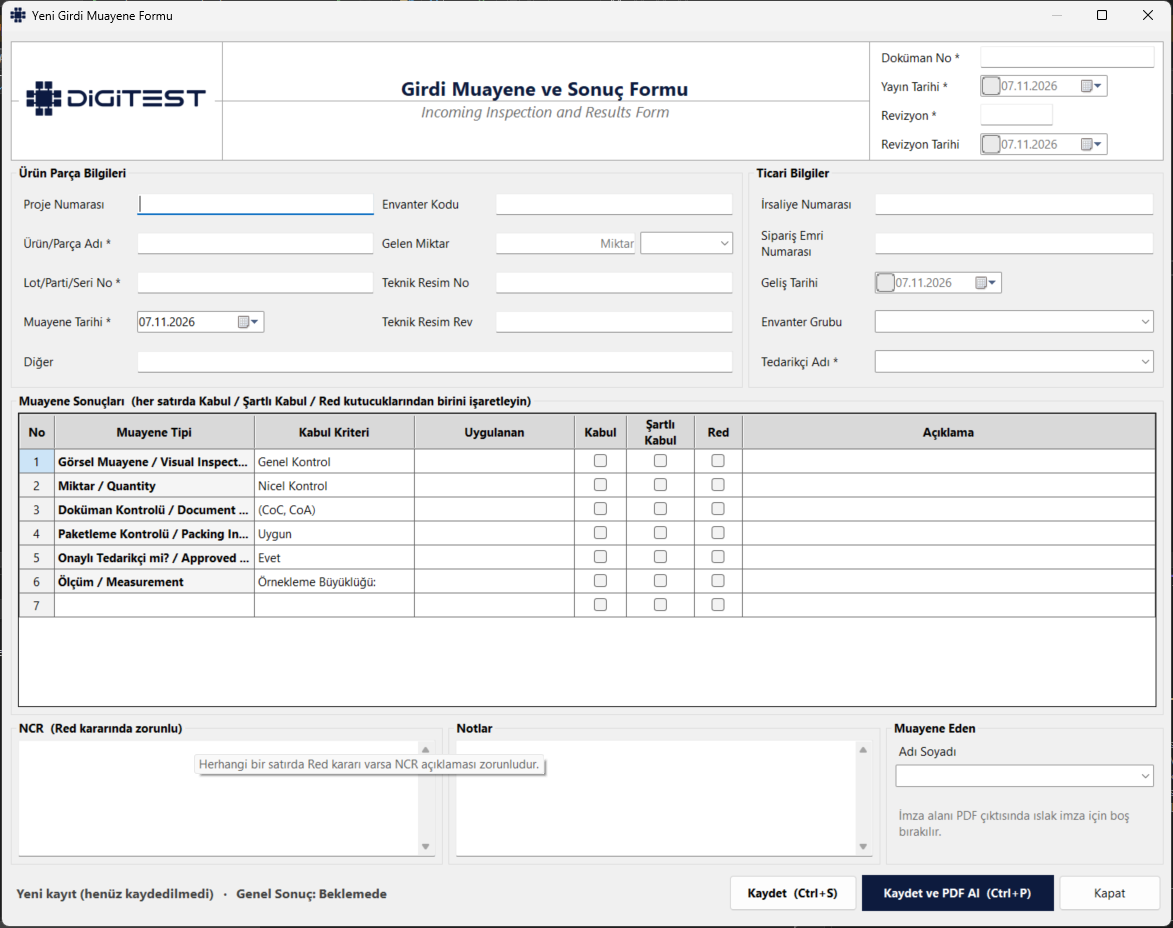
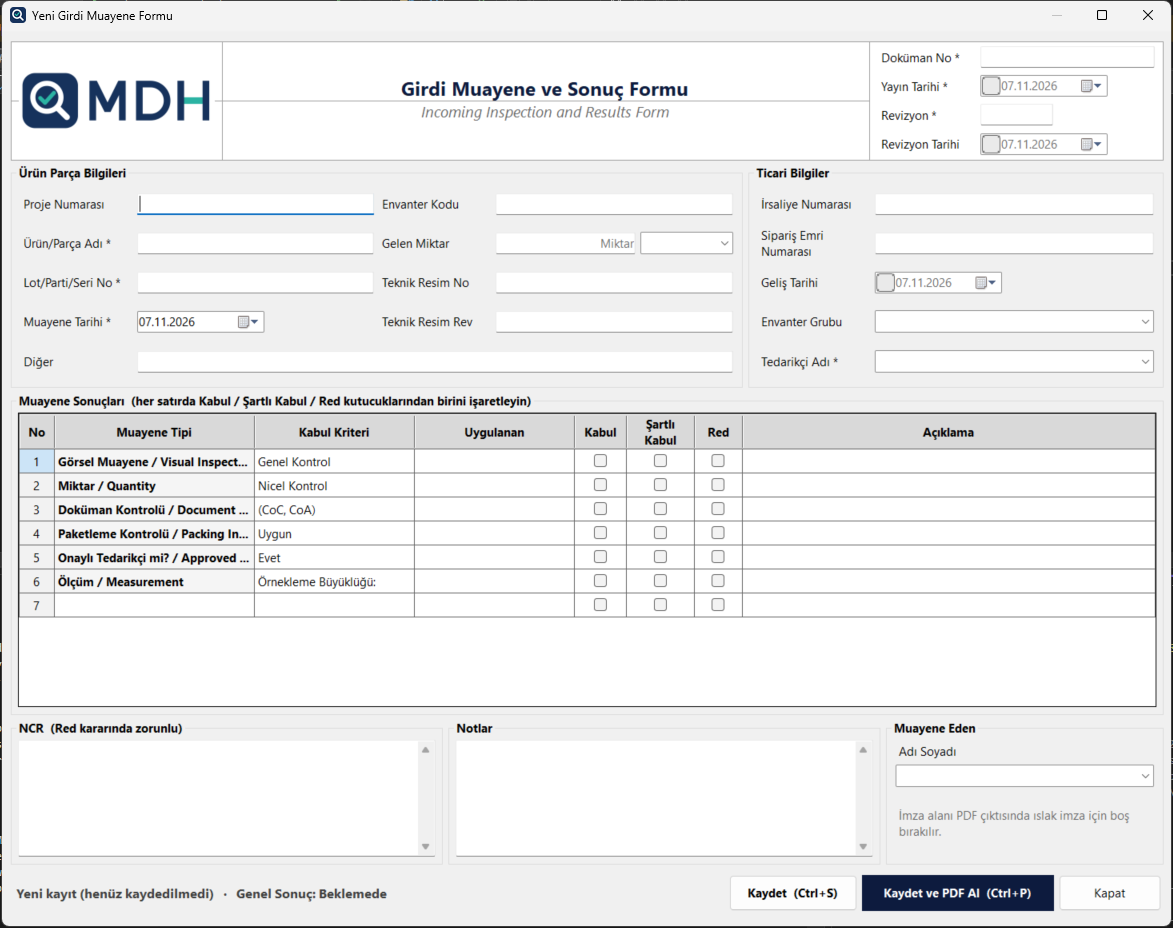
read me fix

Changed region(s): [[0.0, 0.0625, 0.1841, 0.1562], [0.1535, 0.8125, 0.4604, 0.8438], [0.0, 0.0, 0.0307, 0.0312]]

diff --git a/src/Digitest.IncomingInspection.Reporting/InspectionFormPdfGenerator.cs b/src/Digitest.IncomingInspection.Reporting/InspectionFormPdfGenerator.cs
@@ -80,8 +80,8 @@ public sealed class InspectionFormPdfGenerator
         {
             Title = $"{form.DocumentNo} Girdi Muayene ve Sonuç Formu - {form.FormNo}",
             Subject = "Girdi Muayene ve Sonuç Formu / Incoming Inspection and Results Form",
-            Author = "DIGITEST",
-            Creator = "DIGITEST Girdi Muayene"
+            Author = "MDH",
+            Creator = "MDH Girdi Muayene"
         });
 
         return document.GeneratePdf();
@@ -433,7 +433,7 @@ public sealed class InspectionFormPdfGenerator
 
     private static byte[]? LoadEmbeddedLogo()
     {
-        using var stream = typeof(InspectionFormPdfGenerator).Assembly.GetManifestResourceStream("Digitest.Logo.png");
+        using var stream = typeof(InspectionFormPdfGenerator).Assembly.GetManifestResourceStream("App.Logo.png");
         if (stream is null)
             return null;
 

diff --git a/src/Digitest.IncomingInspection.WinForms/AppSettings.cs b/src/Digitest.IncomingInspection.WinForms/AppSettings.cs
@@ -9,7 +9,7 @@ internal sealed class AppSettings
     /// açılışta veritabanı ve tablolar otomatik oluşturulur/güncellenr
     public bool AutoCreateDatabase { get; init; } = true;
 
-    /// <summary>PDF klasörü. %USERPROFILE% gibi ortam değişkenleri kullanılabilir. Boşsa Belgeler\DIGITEST\Girdi Muayene.</summary>
+    /// <summary>PDF klasörü. %USERPROFILE% gibi ortam değişkenleri kullanılabilir. Boşsa Belgeler\MDH\Girdi Muayene.</summary>
     public string? PdfOutputFolder { get; init; }
 
     /// <summary>true ise oluşturulan PDF varsayılan görüntüleyicide açılır.</summary>

diff --git a/src/Digitest.IncomingInspection.WinForms/Infrastructure/AppAssets.cs b/src/Digitest.IncomingInspection.WinForms/Infrastructure/AppAssets.cs
@@ -3,7 +3,7 @@ namespace Digitest.IncomingInspection.WinForms.Infrastructure;
 
 internal static class AppAssets
 {
-    private static readonly Lazy<Image?> LogoImage = new(() => TryLoadImage(Path.Combine("Assets", "logo_digitest.png")));
+    private static readonly Lazy<Image?> LogoImage = new(() => TryLoadImage(Path.Combine("Assets", "logo.png")));
     private static readonly Lazy<Icon?> IconFile = new(() => TryLoadIcon(Path.Combine("Assets", "app.ico")));
 
     public static Image? Logo => LogoImage.Value;

diff --git a/src/Digitest.IncomingInspection.Reporting/InspectionFormPdfExporter.cs b/src/Digitest.IncomingInspection.Reporting/InspectionFormPdfExporter.cs
@@ -57,7 +57,7 @@ public sealed class InspectionFormPdfExporter
         if (string.IsNullOrWhiteSpace(configured))
         {
             var documents = Environment.GetFolderPath(Environment.SpecialFolder.MyDocuments);
-            return Path.Combine(documents, "DIGITEST", "Girdi Muayene");
+            return Path.Combine(documents, "MDH", "Girdi Muayene");
         }
 
         return Path.GetFullPath(Environment.ExpandEnvironmentVariables(configured.Trim()));

diff --git a/src/Digitest.IncomingInspection.WinForms/Forms/MainForm.Designer.cs b/src/Digitest.IncomingInspection.WinForms/Forms/MainForm.Designer.cs
@@ -567,7 +567,7 @@ namespace Digitest.IncomingInspection.WinForms.Forms
             MinimumSize = new Size(1000, 600);
             Name = "MainForm";
             StartPosition = FormStartPosition.CenterScreen;
-            Text = "DIGITEST Girdi Muayene";
+            Text = "MDH Girdi Muayene";
             pnlHeader.ResumeLayout(false);
             pnlHeader.PerformLayout();
             ((System.ComponentModel.ISupportInitialize)picLogo).EndInit();

diff --git a/src/Digitest.IncomingInspection.WinForms/Infrastructure/UiHelper.cs b/src/Digitest.IncomingInspection.WinForms/Infrastructure/UiHelper.cs
@@ -8,7 +8,7 @@ namespace Digitest.IncomingInspection.WinForms.Infrastructure;
 /// </summary>
 internal static class UiHelper
 {
-    public const string AppTitle = "DIGITEST Girdi Muayene";
+    public const string AppTitle = "MDH Girdi Muayene";
 
     public static void ShowError(IWin32Window? owner, Exception exception, string? context = null)
     {

diff --git a/README.md b/README.md
@@ -1,3 +1,5 @@
+<img src="src/Digitest.IncomingInspection.Reporting/Assets/logo.svg" alt="MDH" width="260">
+
 # Girdi Muayene ve Sonuç Formu
 
 Windows masaüstü uygulaması
@@ -78,7 +80,7 @@ Scriptler tekrar çalıştırılabilir yazıldığı için her açılışta güv
 ## Kullanımı
 - Yeni form,  Kaydı açma, Kaydetmek, PDF almak, kKayıt silmek, Listeyi yenilemek
 
-- PDF'ler varsayılan olarak   Belgeler\DIGITEST\Girdi Muayene   klasörüne kaydedilr ve otomatik açılır.
+- PDF'ler varsayılan olarak   Belgeler\MDH\Girdi Muayene   klasörüne kaydedilr ve otomatik açılır.
 
 ---
 
